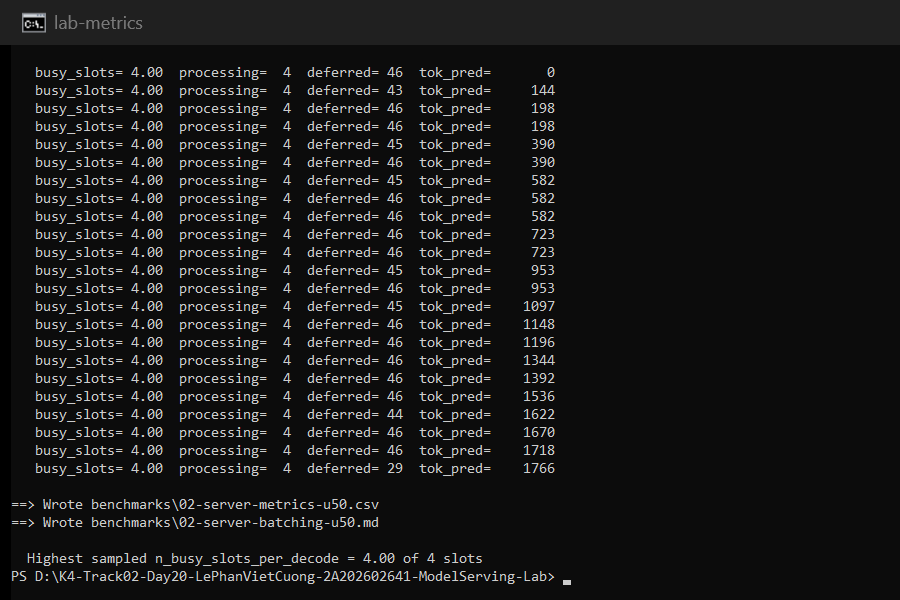
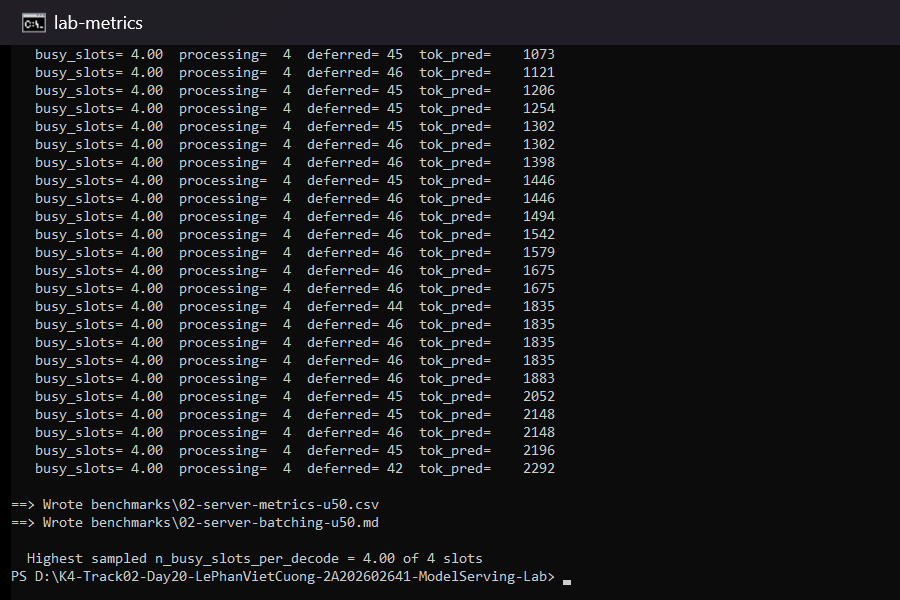
Recapture the 50-user locust screenshot with the full table and refresh numbers
The previous 05-locust-50.png cut off the right-hand percentile columns. Re-run
the 50-user load test and metrics in a wider console, regenerate the saturation
and batching reports, and update REFLECTION section 3 to the new figures
(40 requests, 0.42 RPS, P95 93 s, 23 tok/s aggregate).

diff --git a/benchmarks/02-server-results.md b/benchmarks/02-server-results.md
@@ -7,7 +7,7 @@ Host `Windows-AMD64` · llama.cpp `b10488` ·
 | Users | Reqs | RPS | P50 (ms) | P95 (ms) | P99 (ms) | Eff. concurrency | Failures |
 |:--|--:|--:|--:|--:|--:|--:|--:|
 | 10 | 69 | 0.39 | 22000 | 30000 | 35000 | 8.7 | 0.0% |
-| 50 | 35 | 0.37 | 53000 | 92000 | 94000 | 19.3 | 0.0% |
+| 50 | 40 | 0.42 | 51000 | 93000 | 95000 | 19.8 | 0.0% |
 
 *Effective concurrency = RPS x average latency (Little's Law) -- how many requests were
 really in flight, regardless of how many users locust simulated. It counts queued requests
@@ -16,25 +16,25 @@ utilisation. For true slot utilisation use the server's own gauges (`make metric
 
 ## What these two runs say
 
-> Run conditions: 10 users ran 3 min (69 requests); 50 users ran 100 s (35 requests) because a 3 min run at 50 users hit locust's 120 s read timeout while requests waited in the queue. Samples are small, so percentiles are indicative. The two runs use different durations; RPS and percentiles are still comparable because they are rates and quantiles, not totals.
+> Run conditions: 10 users ran 3 min (69 requests); 50 users ran 100 s (40 requests) because a 3 min run at 50 users hit locust's 120 s read timeout while requests waited in the queue. Samples are small, so percentiles are indicative. The two runs use different durations; RPS and percentiles are still comparable because they are rates and quantiles, not totals.
 
 | Going from 10 to 50 users | |
 |:--|--:|
 | Offered load | 5x |
-| Throughput actually delivered | **0.94x** (19% of linear) |
-| P95 latency | **3.07x** |
-| Effective concurrency at 50 users | 19.3 vs `--parallel 4` slots (occupancy/slot ratio 4.82) |
+| Throughput actually delivered | **1.06x** (21% of linear) |
+| P95 latency | **3.10x** |
+| Effective concurrency at 50 users | 19.8 vs `--parallel 4` slots (occupancy/slot ratio 4.95) |
 
-**Saturated.** Throughput delivered only 0.94x for 5x the offered load, and effective concurrency (19.3) is at or above all 4 decode slots. Saturation sets in somewhere at or below 50 users; the load you added beyond that point became queue time rather than throughput.
+**Saturated.** Throughput delivered only 1.06x for 5x the offered load, and effective concurrency (19.8) is at or above all 4 decode slots. Saturation sets in somewhere at or below 50 users; the load you added beyond that point became queue time rather than throughput.
 
-Throughput moved 0.94x while P95 moved 3.07x. That gap is the goodput argument: past saturation you buy throughput by spending latency, and if your SLO is a P95 target then the requests you added are no longer being served within it. (This lab does not fix an SLO number for you -- pick one in your write-up and state how much goodput you keep at it.)
+Throughput moved 1.06x while P95 moved 3.10x. That gap is the goodput argument: past saturation you buy throughput by spending latency, and if your SLO is a P95 target then the requests you added are no longer being served within it. (This lab does not fix an SLO number for you -- pick one in your write-up and state how much goodput you keep at it.)
 
 ## Your reading
 
-**Server đã bão hoà ở mức 10 user hoặc sớm hơn** (tôi chỉ đo 10 và 50 user nên không xác định được điểm chính xác bên dưới 10). Bằng chứng thuyết phục nhất: tải tăng 5x nhưng throughput **đi ngang** (0.39 -> 0.37 RPS, 0.94x) trong khi P95 tăng **3.07x** (30 s -> 92 s). Ngay ở 10 user, effective concurrency đã là 8.7, gấp đôi 4 slot; ở 50 user là 19.3 (4.82x slot). Server báo cùng điều đó: `processing=4`, `deferred=46` và busy slots 4.00/4. Phần tải thêm không tạo ra throughput, nó thành queue time (P95 tăng nhanh hơn RPS vì thế).
+**Server đã bão hoà ở mức 10 user hoặc sớm hơn** (tôi chỉ đo 10 và 50 user nên không xác định được điểm chính xác bên dưới 10). Bằng chứng thuyết phục nhất: tải tăng 5x nhưng throughput gần như **đi ngang** (0.39 -> 0.42 RPS, 1.06x) trong khi P95 tăng **3.10x** (30 s -> 93 s). Ngay ở 10 user, effective concurrency đã là 8.7, gấp đôi 4 slot; ở 50 user là 19.8 (4.95x slot). Server báo cùng điều đó: `processing=4`, `deferred=46` và busy slots 4.00/4. Phần tải thêm không tạo ra throughput, nó thành queue time (P95 tăng nhanh hơn RPS vì thế).
 
-Goodput@SLO: chọn SLO là P95 <= 30 s cho mỗi request. Ở 10 user P95 = 30 s nên vừa đạt, goodput gần bằng throughput (~0.37-0.39 req/s). Ở 50 user P95 = 92 s và P50 = 53 s, tức hơn một nửa request đã vượt SLO, nên goodput chỉ tối đa khoảng một nửa 0.37 (~0.19 req/s) dù throughput thô vẫn ~0.37.
+Goodput@SLO: chọn SLO là P95 <= 30 s cho mỗi request. Ở 10 user P95 = 30 s nên vừa đạt, goodput gần bằng throughput (~0.37-0.39 req/s). Ở 50 user P95 = 93 s và P50 = 51 s, tức hơn một nửa request đã vượt SLO, nên goodput chỉ tối đa khoảng một nửa throughput 0.42 (~0.21 req/s) dù throughput thô vẫn ~0.42.
 
-Cảnh báo về độ tin cậy: mẫu nhỏ (69 và 35 request), hai lần chạy khác thời lượng (3 min và 100 s), và locust chỉ đếm request đã hoàn tất nên các request còn xếp hàng lúc dừng không nằm trong percentile; P95 ở 50 user vì vậy là ước lượng thấp. Tôi tin hàng throughput và gauge của server hơn hàng P95. Tôi từng chạy 50 user trong 3 min: request chờ quá 120 s và bị ReadTimeout (26 request lỗi), đó cũng là bằng chứng độc lập cho hàng đợi dài hơn timeout.
+Cảnh báo về độ tin cậy: mẫu nhỏ (69 và 40 request), hai lần chạy khác thời lượng (3 min và 100 s), và locust chỉ đếm request đã hoàn tất nên các request còn xếp hàng lúc dừng không nằm trong percentile; P95 ở 50 user vì vậy là ước lượng thấp. Tôi tin hàng throughput và gauge của server hơn hàng P95. Tôi từng chạy 50 user trong 3 min: request chờ quá 120 s và bị ReadTimeout (26 request lỗi), đó cũng là bằng chứng độc lập cho hàng đợi dài hơn timeout.
 
-Knob đổi đầu tiên: **không phải `--parallel`** (đã kín 4/4; thêm slot chỉ chia nhỏ cùng ngân sách tính toán và băng thông). Tôi sẽ giảm công việc mỗi request: giới hạn `max_tokens`, rút ngắn context RAG (prefill của prompt dài cũng chiếm thời gian server), hoặc dùng model nhỏ hơn (Qwen3.5 0.8B).
+Knob đổi đầu tiên: **không phải `--parallel`** (đã kín 4/4; thêm slot chỉ chia nhỏ cùng ngân sách tính toán). Tôi sẽ giảm công việc mỗi request: giới hạn `max_tokens`, rút ngắn context RAG (prefill của prompt dài cũng chiếm thời gian server), hoặc dùng model nhỏ hơn (Qwen3.5 0.8B).

diff --git a/benchmarks/02-server-batching-u50.md b/benchmarks/02-server-batching-u50.md
@@ -1,6 +1,6 @@
 # 02 - Continuous batching under load (u50)
 
-Host `Windows-AMD64` · `--parallel 4` · 23 samples over
+Host `Windows-AMD64` · `--parallel 4` · 45 samples over
 100s at 2.0s intervals · raw CSV: `02-server-metrics-u50.csv`
 
 | Gauge | Peak observed |
@@ -9,7 +9,7 @@ Host `Windows-AMD64` · `--parallel 4` · 23 samples over
 | `requests_processing` | 4 |
 | `requests_deferred` | 46 |
 | `kv_cache_usage_ratio` | n/a — not exported by llama.cpp `b10488` |
-| `tokens_predicted_total` (final) | 1766 |
+| `tokens_predicted_total` (final) | 2292 |
 
 Highest sampled value was **4.00 of 4** slots. Note this gauge is llama.cpp's *average* busy slots per decode step, so the number below is the highest average we sampled, not an instantaneous maximum batch width. A peak near 1 means
 requests were served one at a time -- either the load was too light to overlap, or
@@ -21,4 +21,4 @@ genuinely packing concurrent requests into shared decode steps.
 
 Peak `n_busy_slots_per_decode` là **4.00/4**, kèm `requests_processing=4` và `requests_deferred=46`: scheduler gộp đủ 4 request vào chung các bước decode và 46 request còn lại xếp hàng chờ slot. Đây là continuous batching đúng nghĩa. Server được khởi động mới trước lần chạy này nên gauge (là trung bình tích lũy của llama.cpp, không phải giá trị tức thời) không còn dư từ các lần chạy trước; mẫu đầu tiên đã là 4.0 vì 50 user vào gần như cùng lúc.
 
-Khớp với `02-server-results.md`: effective concurrency 19.3 > 4 slot, cả hai cùng nói slot đã kín và phần dư là hàng đợi. Tôi tin gauge của server khi nói về slot và tin effective concurrency khi nói về số request đang nằm trong hệ thống (gồm hàng đợi). Lợi ích của batching có giới hạn: `tokens_predicted_total` tăng 0 -> 1766 trong ~97 s (khoảng 18 tok/s), so với ~13 tok/s khi chạy một request đơn, tức chỉ ~1.4x chứ không phải 4x. Trần có thể là băng thông bộ nhớ dùng chung giữa CPU và iGPU (tôi chưa tách bạch được với giới hạn tính toán của iGPU), và prefill của các prompt RAG dài (prompt_tokens 1694 trong cùng khoảng) cũng lấy thời gian của slot.
+Khớp với `02-server-results.md`: effective concurrency 19.8 > 4 slot, cả hai cùng nói slot đã kín và phần dư là hàng đợi. Tôi tin gauge của server khi nói về slot và tin effective concurrency khi nói về số request đang nằm trong hệ thống (gồm hàng đợi). Lợi ích của batching có giới hạn: `tokens_predicted_total` tăng 0 -> 2292 trong 99.5 s (khoảng 23 tok/s), so với ~13 tok/s khi chạy một request đơn, tức ~1.8x chứ không phải 4x. Trần có thể là băng thông bộ nhớ dùng chung giữa CPU và iGPU (tôi chưa tách bạch được với giới hạn tính toán của iGPU), và prefill của các prompt RAG dài cũng lấy thời gian của slot. Lần chạy trước của cùng cấu hình cho ~18 tok/s, nên con số này dao động khoảng 20-25% giữa các lần.

diff --git a/submission/REFLECTION.md b/submission/REFLECTION.md
@@ -61,11 +61,11 @@ chưa? Chất lượng khác nhau thế nào?
 | Users | RPS | P50 (ms) | P95 (ms) | P99 (ms) | Eff. concurrency | Failures |
 |--:|--:|--:|--:|--:|--:|--:|
 | 10 | 0.39 | 22000 | 30000 | 35000 | 8.7 | 0.0% |
-| 50 | 0.37 | 53000 | 92000 | 94000 | 19.3 | 0.0% |
+| 50 | 0.42 | 51000 | 93000 | 95000 | 19.8 | 0.0% |
 
-- **Offered load tăng 5×, throughput thực tăng:** 0.94× (throughput đi ngang: 0.39 → 0.37 RPS)
-- **P95 tăng:** 3.07× (30 s → 92 s; vẫn là ước lượng thấp vì locust chỉ tính request đã xong)
-- **Effective concurrency ở 50 users:** 19.3 so với `--parallel` = 4 slots (10 user: 8.7)
+- **Offered load tăng 5×, throughput thực tăng:** 1.06× (throughput gần như đi ngang: 0.39 → 0.42 RPS)
+- **P95 tăng:** 3.10× (30 s → 93 s; vẫn là ước lượng thấp vì locust chỉ tính request đã xong)
+- **Effective concurrency ở 50 users:** 19.8 so với `--parallel` = 4 slots (10 user: 8.7)
 
 **Peak `llamacpp:n_busy_slots_per_decode`** (từ `make metrics` khi `make load-50` đang
 chạy): 4.00 / 4 slots (`processing=4`, `deferred=46`)
@@ -75,7 +75,7 @@ thuyết phục bạn? Nếu P95 tăng nhanh hơn RPS thì phần latency thêm 
 compute time — bạn biết bằng cách nào? Nếu bạn phải nâng goodput@SLO, bạn sẽ đổi knob
 nào **trước**, và vì sao knob đó?
 
-Server đã bão hoà ở mức 10 user hoặc sớm hơn (tôi chỉ đo 10 và 50). Bằng chứng: tải 5× nhưng throughput đi ngang (0.94×) còn P95 tăng 3.07×; effective concurrency 8.7 ở 10 user và 19.3 ở 50 user, so với 4 slot; server báo `processing=4`, `deferred=46`. Phần tải thêm thành queue time, không phải compute: P95 tăng nhanh hơn RPS. Batching chỉ cho ~18 tok/s tổng so với ~13 tok/s một request (~1.4×). Với SLO P95 ≤ 30 s, 10 user vừa đạt, 50 user không đạt (goodput tối đa ~0.19 req/s). Knob đổi trước: giảm công việc mỗi request (`max_tokens`, context RAG ngắn hơn, model nhỏ hơn), không phải `--parallel`. Mẫu nhỏ (69 và 35 request; 10 user chạy 3 phút, 50 user chạy 100 giây vì 3 phút gây ReadTimeout).
+Server đã bão hoà ở mức 10 user hoặc sớm hơn (tôi chỉ đo 10 và 50). Bằng chứng: tải 5× nhưng throughput gần như đi ngang (1.06×) còn P95 tăng 3.10×; effective concurrency 8.7 ở 10 user và 19.8 ở 50 user, so với 4 slot; server báo `processing=4`, `deferred=46`. Phần tải thêm thành queue time, không phải compute: P95 tăng nhanh hơn RPS. Batching chỉ cho ~23 tok/s tổng so với ~13 tok/s một request (~1.8×). Với SLO P95 ≤ 30 s, 10 user vừa đạt, 50 user không đạt (goodput tối đa ~0.21 req/s). Knob đổi trước: giảm công việc mỗi request (`max_tokens`, context RAG ngắn hơn, model nhỏ hơn), không phải `--parallel`. Mẫu nhỏ (69 và 40 request; 10 user chạy 3 phút, 50 user chạy 100 giây vì 3 phút gây ReadTimeout).
 
 ---
 
